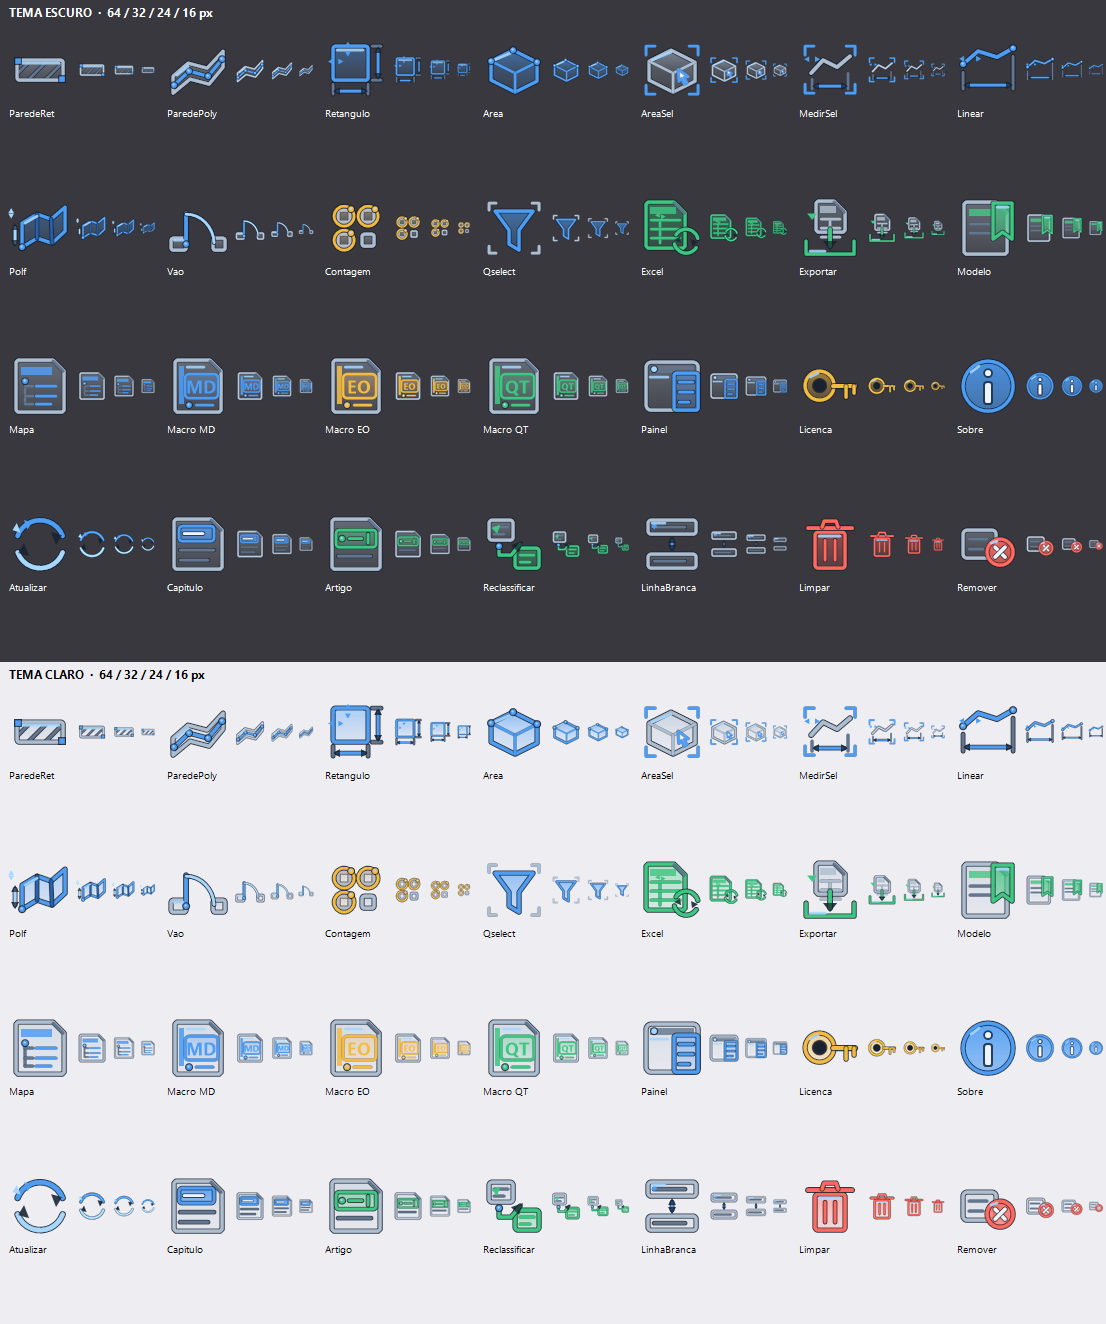
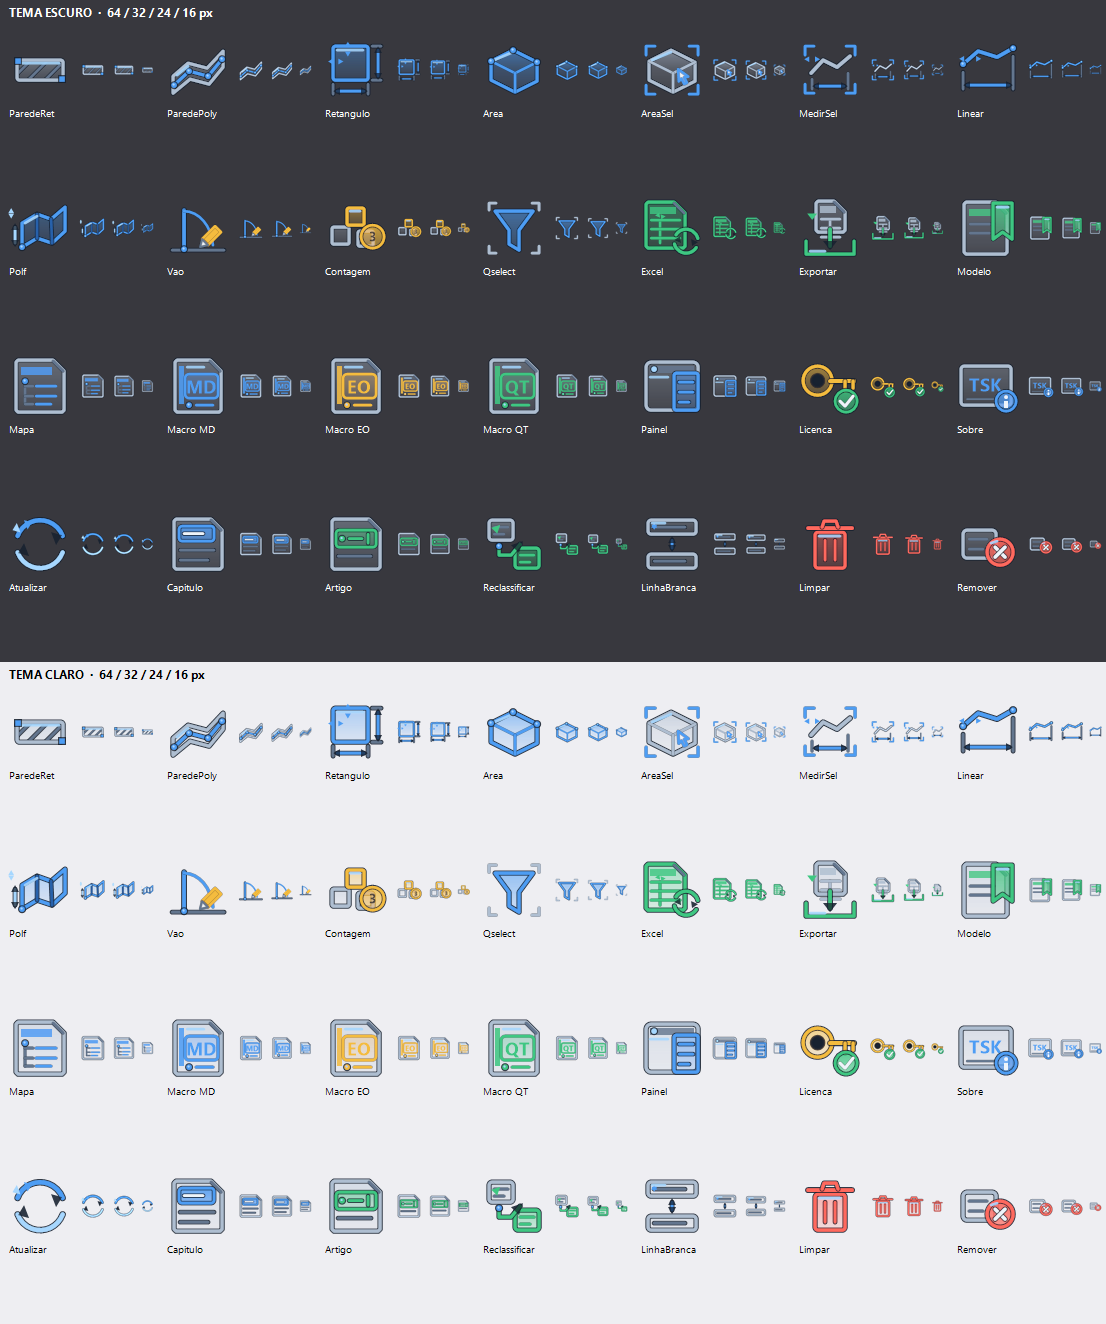
feat: variantes de ícones dedicadas à Ribbon em 32/16 px
Ribbon.cs passa a gerar o ícone grande e o compacto a partir do
RibbonIconRenderer (64 px -> 32/16 px com margem ótica constante), em
vez de reaproveitar o mesmo bitmap de 64 px nos dois tamanhos.
IconFactory.cs ganha variantes Ribbon* (Vão, Contagem, Licença, Sobre)
desenhadas para ler bem nesses tamanhos menores.

diff --git a/Deploy/PreviewIcons/Program.cs b/Deploy/PreviewIcons/Program.cs
@@ -23,6 +23,14 @@ namespace PreviewIcons
             "Atualizar", "Capitulo", "Artigo", "Reclassificar", "LinhaBranca", "Limpar", "Remover"
         };
 
+        private static readonly string[] NomesRibbon =
+        {
+            "Painel", "Licenca", "ParedeRet", "ParedePoly", "Area",
+            "AreaSel", "MedirSel", "Linear", "Vao", "Retangulo",
+            "Polf", "Contagem", "Excel", "Exportar", "Modelo",
+            "Mapa", "Macro MD", "Macro EO", "Macro QT", "Sobre"
+        };
+
         private static void Main()
         {
             int cols = 7, cell = 158, faixa = 30;
@@ -46,6 +54,67 @@ namespace PreviewIcons
                 bmp.Save(saida, ImageFormat.Png);
                 Console.WriteLine("Gravado: " + System.IO.Path.GetFullPath(saida));
             }
+
+            GerarPreviewRibbon();
+        }
+
+        private static void GerarPreviewRibbon()
+        {
+            const int cols = 10;
+            const int cellW = 110;
+            const int cellH = 82;
+            const int faixa = 26;
+            int rows = (NomesRibbon.Length + cols - 1) / cols;
+            int alturaTema = faixa + rows * cellH;
+
+            using (var bmp = new Bitmap(cols * cellW, alturaTema * 2))
+            using (var g = Graphics.FromImage(bmp))
+            using (var fonteTitulo = new Font("Segoe UI", 9f, FontStyle.Bold))
+            using (var fonte = new Font("Segoe UI", 7.5f))
+            {
+                g.SmoothingMode = SmoothingMode.AntiAlias;
+                g.InterpolationMode = InterpolationMode.HighQualityBicubic;
+                g.PixelOffsetMode = PixelOffsetMode.HighQuality;
+
+                var fundos = new[] { Color.FromArgb(56, 56, 62), Color.FromArgb(238, 238, 242) };
+                var textos = new[] { Color.White, Color.Black };
+                var tipo = typeof(IconFactory);
+
+                for (int tema = 0; tema < 2; tema++)
+                {
+                    int topo = tema * alturaTema;
+                    using (var fundo = new SolidBrush(fundos[tema]))
+                    using (var texto = new SolidBrush(textos[tema]))
+                    {
+                        g.FillRectangle(fundo, 0, topo, bmp.Width, alturaTema);
+                        g.DrawString(tema == 0 ? "RIBBON — TEMA ESCURO" : "RIBBON — TEMA CLARO",
+                                     fonteTitulo, texto, 8, topo + 4);
+
+                        for (int i = 0; i < NomesRibbon.Length; i++)
+                        {
+                            string nome = NomesRibbon[i];
+                            using (var origem = CriarIcone(tipo, nome))
+                            using (var grande = RibbonIconRenderer.Preparar(origem, 32))
+                            using (var pequena = RibbonIconRenderer.Preparar(origem, 16))
+                            {
+                                ValidarRibbon(nome, grande, 32);
+                                ValidarRibbon(nome, pequena, 16);
+
+                                int x = (i % cols) * cellW + 8;
+                                int y = (i / cols) * cellH + topo + faixa + 8;
+                                g.DrawImageUnscaled(grande, x, y);
+                                g.DrawImageUnscaled(pequena, x + 42, y + 8);
+                                g.DrawString(nome, fonte, texto, x, y + 39);
+                            }
+                        }
+                    }
+                }
+
+                string saida = System.IO.Path.Combine(
+                    AppContext.BaseDirectory, "..\\..\\..\\..", "preview-ribbon.png");
+                bmp.Save(saida, ImageFormat.Png);
+                Console.WriteLine("Gravado: " + System.IO.Path.GetFullPath(saida));
+            }
         }
 
         private static void Painel(Graphics g, int topo, int cols, int cell, int faixa,
@@ -64,25 +133,45 @@ namespace PreviewIcons
                 for (int i = 0; i < Nomes.Length; i++)
                 {
                     string nome = Nomes[i];
-                    Bitmap icone = nome.StartsWith("Macro ")
-                        ? (Bitmap)tipo.GetMethod("Macro").Invoke(null, new object[] { nome.Substring(6) })
-                        : (Bitmap)tipo.GetMethod(nome).Invoke(null, null);
+                    Bitmap icone = CriarIcone(tipo, nome);
 
                     ValidarIcone(nome, icone);
 
                     int x = (i % cols) * cell + 8;
                     int y = (i / cols) * cell + topo + faixa + 8;
 
-                    // Escala ótica real: fonte, ribbon, palette e ribbon colapsada.
+                    // Fonte de 64 px e os dois tamanhos que a Ribbon recebe de
+                    // verdade. Os 24 px continuam a simular o uso na palette.
                     g.DrawImage(icone, x, y, 64, 64);
-                    g.DrawImage(icone, x + 68, y + 16, 32, 32);
+                    using (var ribbon32 = RibbonIconRenderer.Preparar(icone, 32))
+                    {
+                        ValidarRibbon(nome, ribbon32, 32);
+                        g.DrawImageUnscaled(ribbon32, x + 68, y + 16);
+                    }
                     g.DrawImage(icone, x + 104, y + 20, 24, 24);
-                    g.DrawImage(icone, x + 132, y + 24, 16, 16);
+                    using (var ribbon16 = RibbonIconRenderer.Preparar(icone, 16))
+                    {
+                        ValidarRibbon(nome, ribbon16, 16);
+                        g.DrawImageUnscaled(ribbon16, x + 132, y + 24);
+                    }
 
                     g.DrawString(nome, fonte, pincel, x, y + 68);
                     icone.Dispose();
                 }
             }
+        }
+
+        private static Bitmap CriarIcone(Type tipo, string nome)
+        {
+            string metodo = nome;
+            if (nome == "Vao") metodo = "RibbonVao";
+            else if (nome == "Contagem") metodo = "RibbonContagem";
+            else if (nome == "Licenca") metodo = "RibbonLicenca";
+            else if (nome == "Sobre") metodo = "RibbonSobre";
+
+            return nome.StartsWith("Macro ")
+                ? (Bitmap)tipo.GetMethod("Macro").Invoke(null, new object[] { nome.Substring(6) })
+                : (Bitmap)tipo.GetMethod(metodo).Invoke(null, null);
         }
 
         private static void ValidarIcone(string nome, Bitmap icone)
@@ -95,6 +184,25 @@ namespace PreviewIcons
             if (icone.GetPixel(0, 0).A != 0 || icone.GetPixel(63, 0).A != 0 ||
                 icone.GetPixel(0, 63).A != 0 || icone.GetPixel(63, 63).A != 0)
                 throw new InvalidOperationException(nome + " ocupa os cantos do canvas transparente.");
+        }
+
+        private static void ValidarRibbon(string nome, Bitmap icone, int lado)
+        {
+            if (icone.Width != lado || icone.Height != lado)
+                throw new InvalidOperationException(nome + " não foi preparado em " + lado + " × " + lado + ".");
+            if (!Image.IsAlphaPixelFormat(icone.PixelFormat))
+                throw new InvalidOperationException(nome + " perdeu o canal alfa em " + lado + " px.");
+
+            bool visivel = false;
+            for (int y = 0; y < lado && !visivel; y++)
+                for (int x = 0; x < lado; x++)
+                    if (icone.GetPixel(x, y).A > 8) { visivel = true; break; }
+
+            if (!visivel)
+                throw new InvalidOperationException(nome + " ficou vazio em " + lado + " px.");
+            if (icone.GetPixel(0, 0).A != 0 || icone.GetPixel(lado - 1, 0).A != 0 ||
+                icone.GetPixel(0, lado - 1).A != 0 || icone.GetPixel(lado - 1, lado - 1).A != 0)
+                throw new InvalidOperationException(nome + " perdeu a margem transparente em " + lado + " px.");
         }
     }
 }

diff --git a/IconFactory.cs b/IconFactory.cs
@@ -795,6 +795,109 @@ namespace TSKTakeOff
             return bmp;
         }
 
+        // Variantes exclusivas da Ribbon ---------------------------------------
+
+        /// <summary>
+        /// Vão introduzido manualmente: a porta mantém a leitura arquitetónica
+        /// e o lápis distingue este comando da simples deteção de aberturas.
+        /// </summary>
+        public static Bitmap RibbonVao()
+        {
+            var bmp = NewCanvas(out Graphics g);
+
+            Line(g, SlateDeep, DetailStroke, 6, 54, 58, 54);
+            Line(g, Cobalt, 3.6f, 18, 53, 18, 14);
+            using (var arc = new GraphicsPath())
+            {
+                arc.AddArc(-11, 15, 58, 76, 270, 82);
+                InnerStrokePath(g, arc, Cobalt, DetailStroke);
+            }
+
+            var corpo = new[]
+            {
+                new PointF(36, 43), new PointF(49, 30),
+                new PointF(55, 36), new PointF(42, 49)
+            };
+            using (var path = PolygonPath(corpo))
+            {
+                using (var fill = new SolidBrush(Amber)) g.FillPath(fill, path);
+                InnerStrokePath(g, path, Amber, DetailStroke);
+            }
+
+            var ponta = new[]
+            {
+                new PointF(36, 43), new PointF(42, 49), new PointF(34, 51)
+            };
+            using (var path = PolygonPath(ponta))
+            using (var fill = new SolidBrush(Paper))
+            {
+                g.FillPath(fill, path);
+                InnerStrokePath(g, path, SlateDeep, 1.8f);
+            }
+
+            Node(g, 18, 53, Cobalt);
+            g.Dispose();
+            return bmp;
+        }
+
+        /// <summary>Blocos CAD acompanhados por um contador inequívoco.</summary>
+        public static Bitmap RibbonContagem()
+        {
+            var bmp = NewCanvas(out Graphics g);
+
+            Panel(g, new RectangleF(8, 31, 17, 17), 1.5f, Slate, 86, 30);
+            Panel(g, new RectangleF(23, 12, 17, 17), 1.5f, Amber, 118, 42);
+            Panel(g, new RectangleF(34, 35, 15, 15), 1.5f, Slate, 86, 30);
+            Highlight(g, 26, 15, 36, 15);
+
+            Ellipse(g, new RectangleF(37, 29, 23, 23), Amber, 205, 112, DetailStroke);
+            FittedMonogram(g, "3", new RectangleF(39, 30, 19, 20), Ink);
+
+            g.Dispose();
+            return bmp;
+        }
+
+        /// <summary>Chave de licença com confirmação visual de ativação.</summary>
+        public static Bitmap RibbonLicenca()
+        {
+            var bmp = NewCanvas(out Graphics g);
+
+            Ellipse(g, new RectangleF(5, 12, 29, 29), Amber, 146, 46, MainStroke);
+            Ellipse(g, new RectangleF(14, 21, 11, 11), Ink, 255, 255, DetailStroke);
+            Line(g, Amber, 4f, 32, 27, 56, 27);
+            Line(g, Amber, MainStroke, 47, 27, 47, 37);
+            Line(g, Amber, MainStroke, 55, 27, 55, 34);
+
+            Ellipse(g, new RectangleF(37, 36, 22, 22), Emerald, 218, 132, DetailStroke);
+            InnerPolyline(g, Paper, new[]
+            {
+                new PointF(42, 47), new PointF(47, 52), new PointF(55, 42)
+            }, 3f);
+
+            g.Dispose();
+            return bmp;
+        }
+
+        /// <summary>Marca do produto com um pequeno indicador de informação.</summary>
+        public static Bitmap RibbonSobre()
+        {
+            var bmp = NewCanvas(out Graphics g);
+
+            Panel(g, new RectangleF(5, 12, 50, 39), 3f, Slate, 84, 28);
+            FittedMonogram(g, "TSK", new RectangleF(8, 17, 43, 26), Cobalt);
+            InnerLine(g, SlateDeep, 1.8f, 11, 45, 39, 45);
+
+            Ellipse(g, new RectangleF(40, 37, 20, 20), Cobalt, 225, 145, DetailStroke);
+            using (var brush = new SolidBrush(Paper))
+            {
+                g.FillEllipse(brush, 48, 41, 4, 4);
+                g.FillRectangle(brush, 48, 47, 4, 7);
+            }
+
+            g.Dispose();
+            return bmp;
+        }
+
         /// <summary>
         /// Roda dentada — o botão «Definições…» do painel único.
         ///

diff --git a/Ribbon.cs b/Ribbon.cs
@@ -56,7 +56,7 @@ namespace TSKTakeOff
                 var pProjeto = NovoPainel(tab, "Projeto");
                 pProjeto.Items.Add(BotaoGrande("Painel de\nMedições", IconFactory.Painel(),
                     "TSKPAINEL ", "Abre o painel lateral com as medições do desenho."));
-                pProjeto.Items.Add(BotaoGrande("Licença", IconFactory.Licenca(),
+                pProjeto.Items.Add(BotaoGrande("Licença", IconFactory.RibbonLicenca(),
                     "TSKLICENCA ", "Activar ou consultar a licença deste posto."));
 
                 // ---------- Alvenaria ----------
@@ -78,7 +78,7 @@ namespace TSKTakeOff
                     "TSKMEDSEL ", "Mede polylines, linhas ou hachuras existentes no desenho."));
                 pAlv.Items.Add(BotaoGrande("Medição\nLinear", IconFactory.Linear(),
                     "TSKLINEAR ", "Medição linear simples por categoria (tubos, rodapés…)."));
-                pAlv.Items.Add(BotaoGrande("Vãos à\nmão", IconFactory.Vao(),
+                pAlv.Items.Add(BotaoGrande("Vãos à\nmão", IconFactory.RibbonVao(),
                     "TSKVAO ", "Escolhe a medição e seleciona os textos/blocos dos vãos."));
 
                 // ---------- Fachadas / ETICS ----------
@@ -90,7 +90,7 @@ namespace TSKTakeOff
 
                 // ---------- Contagens ----------
                 var pCont = NovoPainel(tab, "Contagens");
-                pCont.Items.Add(BotaoGrande("Contar\nBlocos", IconFactory.Contagem(),
+                pCont.Items.Add(BotaoGrande("Contar\nBlocos", IconFactory.RibbonContagem(),
                     "TSKCONTAR ", "Conta os blocos seleccionados (portas, janelas, tomadas, " +
                     "luminárias…) e marca cada um com um círculo. Aceita a selecção do QSELECT."));
 
@@ -117,7 +117,7 @@ namespace TSKTakeOff
                     "TSKEO ", "Corre a macro CriarEO_Final: estimativa orçamental."));
                 pMacros.Items.Add(BotaoGrande("QT", IconFactory.Macro("QT"),
                     "TSKQT ", "Corre a macro CriarQT: mapa de quantidades."));
-                pMacros.Items.Add(BotaoGrande("TSK\nDIGITAL", IconFactory.Sobre(),
+                pMacros.Items.Add(BotaoGrande("TSK\nDIGITAL", IconFactory.RibbonSobre(),
                     "TSKSOBRE ", "Sobre o TSK TakeOff: versão, build e informação do produto."));
 
                 _construida = true;
@@ -140,18 +140,26 @@ namespace TSKTakeOff
         private static RibbonButton BotaoGrande(string texto, System.Drawing.Bitmap icone,
             string comando, string dica)
         {
-            // Uma conversão só, e o bitmap GDI+ vai-se embora a seguir: o
-            // BitmapSource.Create copia os bits, não fica preso ao original.
-            ImageSource imagem = ToImageSource(icone);
-            icone.Dispose();
+            // A Ribbon usa 32 px no botão grande e 16 px quando o painel é
+            // compactado. Criar os dois tamanhos evita que o AutoCAD reduza
+            // o mesmo bitmap de 64 px de forma diferente em cada versão.
+            ImageSource imagemGrande;
+            ImageSource imagemPequena;
+            using (icone)
+            using (var grande = RibbonIconRenderer.Preparar(icone, 32))
+            using (var pequena = RibbonIconRenderer.Preparar(icone, 16))
+            {
+                imagemGrande = ToImageSource(grande);
+                imagemPequena = ToImageSource(pequena);
+            }
 
             var btn = new RibbonButton
             {
                 Text = texto,
                 ShowText = true,
                 ShowImage = true,
-                LargeImage = imagem,
-                Image = imagem,
+                LargeImage = imagemGrande,
+                Image = imagemPequena,
                 Size = RibbonItemSize.Large,
                 Orientation = System.Windows.Controls.Orientation.Vertical,
                 CommandParameter = comando,

diff --git a/RibbonIconRenderer.cs b/RibbonIconRenderer.cs
@@ -1,0 +1,47 @@
+using System;
+using System.Drawing;
+using System.Drawing.Drawing2D;
+using System.Drawing.Imaging;
+
+namespace TSKTakeOff
+{
+    /// <summary>
+    /// Prepara os bitmaps da Ribbon nos tamanhos nativos do AutoCAD.
+    ///
+    /// Os desenhos do <see cref="IconFactory"/> vivem numa grelha de 64 px.
+    /// A Ribbon, porém, pede 32 px para botões grandes e 16 px quando um painel
+    /// é compactado. Gerar cada tamanho explicitamente mantém o alfa e deixa
+    /// uma margem ótica constante.
+    /// </summary>
+    internal static class RibbonIconRenderer
+    {
+        internal const float EscalaConteudo = 0.84f;
+
+        internal static Bitmap Preparar(Bitmap origem, int lado)
+        {
+            if (origem == null) throw new ArgumentNullException(nameof(origem));
+            if (lado <= 0) throw new ArgumentOutOfRangeException(nameof(lado));
+
+            var destino = new Bitmap(lado, lado, PixelFormat.Format32bppArgb);
+            destino.SetResolution(96f, 96f);
+
+            using (var g = Graphics.FromImage(destino))
+            {
+                g.Clear(Color.Transparent);
+                g.CompositingMode = CompositingMode.SourceOver;
+                g.CompositingQuality = CompositingQuality.HighQuality;
+                g.InterpolationMode = InterpolationMode.HighQualityBicubic;
+                g.PixelOffsetMode = PixelOffsetMode.HighQuality;
+                g.SmoothingMode = SmoothingMode.HighQuality;
+                float conteudo = lado * EscalaConteudo;
+                float margem = (lado - conteudo) / 2f;
+                g.DrawImage(origem,
+                    new RectangleF(margem, margem, conteudo, conteudo),
+                    new RectangleF(0, 0, origem.Width, origem.Height),
+                    GraphicsUnit.Pixel);
+            }
+
+            return destino;
+        }
+    }
+}
